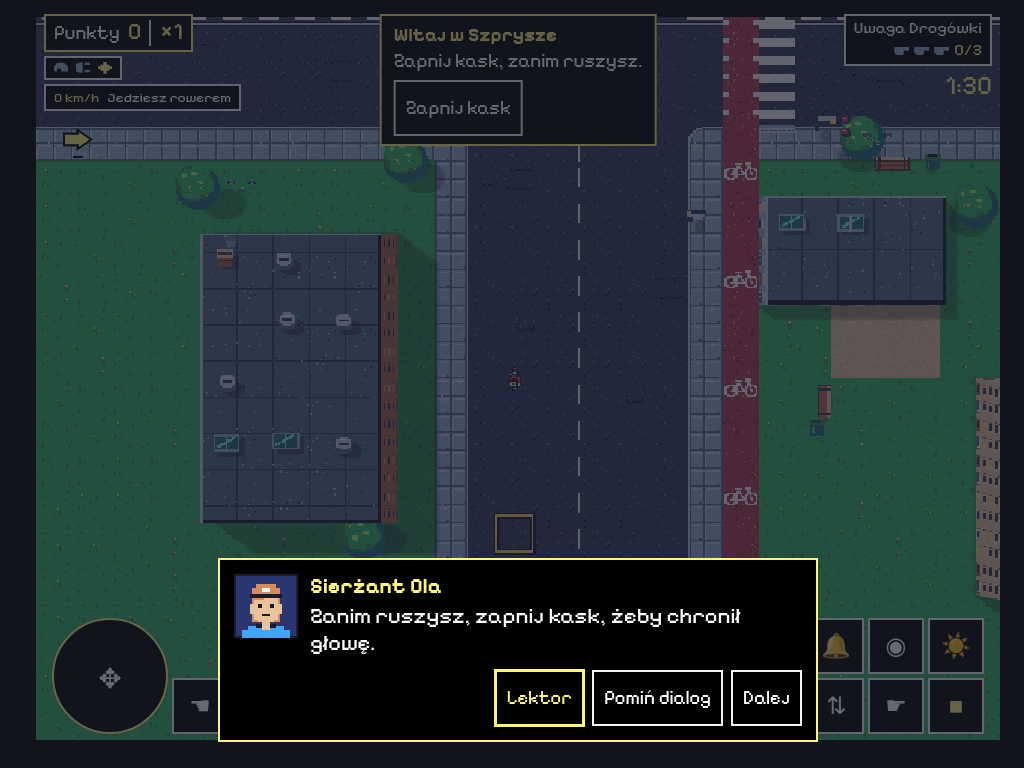
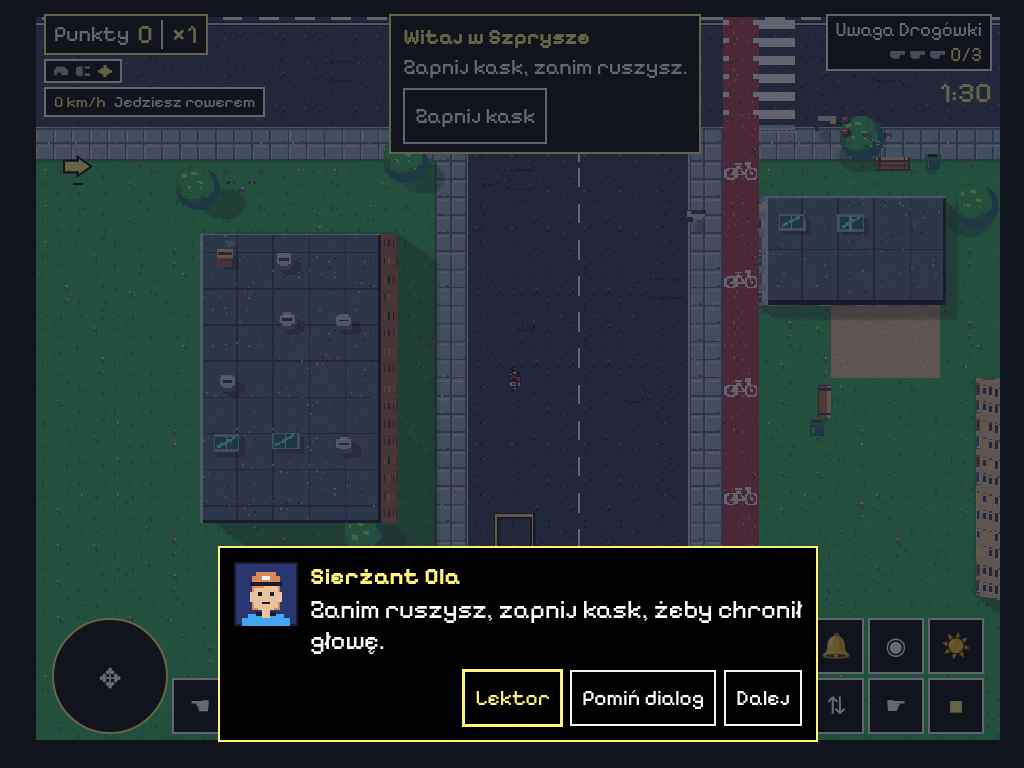
fix(ui): pomieść quiz i HUD z największym tekstem

diff --git a/tests/e2e/mobile-ui.spec.ts b/tests/e2e/mobile-ui.spec.ts
@@ -87,7 +87,17 @@ async function unlockQuiz(page: Page) {
           const record = tx.objectStore(store);
           const read = record.get(key);
           read.onsuccess = () =>
-            record.put({ ...read.result, missionPoints: 4000 }, key);
+            record.put(
+              {
+                ...read.result,
+                missionPoints: 4000,
+                quiz: {
+                  streak: 0,
+                  cards: { Q024: { box: 1, due: '2000-01-01' } },
+                },
+              },
+              key,
+            );
           tx.oncomplete = () => {
             db.close();
             resolve();
@@ -154,7 +164,7 @@ for (const { profile, device, viewport, target, logicalHeight } of [
       const settings = page.getByRole('dialog', { name: pl.settings.title });
       await settings
         .getByRole('combobox', { name: pl.missionResults.textSize })
-        .selectOption('large');
+        .selectOption('largest');
       await settings
         .getByRole('checkbox', { name: pl.missionResults.highContrast })
         .check();
@@ -163,7 +173,7 @@ for (const { profile, device, viewport, target, logicalHeight } of [
         .check();
       await settings.getByRole('button', { name: pl.m5c.close }).tap();
       const root = page.locator('html');
-      await expect(root).toHaveAttribute('data-text-size', 'large');
+      await expect(root).toHaveAttribute('data-text-size', 'largest');
       await expect(root).toHaveAttribute('data-contrast', '');
       await expect(root).toHaveAttribute('data-reduced-effects', '');
       await expect(menu).toHaveCSS('background-color', 'rgb(0, 0, 0)');
@@ -171,6 +181,7 @@ for (const { profile, device, viewport, target, logicalHeight } of [
       const quiz = page.getByRole('dialog', { name: pl.quiz.title });
       await quiz.getByRole('button', { name: new RegExp(pl.quiz.quick) }).tap();
       await expect(quiz.getByRole('progressbar')).toBeVisible();
+      await expect(quiz.locator('.quiz-signs img')).toHaveCount(2);
       await expect(quiz).toHaveCSS('background-color', 'rgb(0, 0, 0)');
       await layout(page, quiz.locator(buttons), target);
       await shot(page, profile, 'quiz');

diff --git a/src/style.css b/src/style.css
@@ -2137,17 +2137,42 @@ html[data-reduced-effects]
     grid-template-columns: 1fr auto;
     padding-bottom: 4px;
   }
+  .quiz-panel :has(> .quiz-signs) {
+    display: grid;
+    grid-template-columns: minmax(0, 1fr) auto;
+    align-items: center;
+    gap: 4px 8px;
+  }
+  .quiz-panel :has(> .quiz-signs) > .quiz-meta {
+    margin-block: 2px;
+  }
+  .quiz-panel :has(> .quiz-signs) > progress {
+    grid-area: 1 / 2;
+  }
+  .quiz-panel :has(> .quiz-signs) > .quiz-answers {
+    grid-column: 1 / -1;
+  }
+  .quiz-panel .quiz-prompt {
+    font-size: calc(17px * var(--text-scale));
+    line-height: 1.1;
+    margin-block: 3px;
+  }
   .quiz-signs {
     padding: 2px;
-    margin-bottom: 4px;
+    margin: 0;
   }
   .quiz-signs img {
-    width: 54px;
+    width: 48px;
   }
   .quiz-modules,
   .quiz-answers {
     grid-template-columns: repeat(2, minmax(0, 1fr));
     gap: 4px;
+  }
+  .quiz-answers button {
+    padding: 3px 6px;
+    font-size: calc(14px * var(--text-scale));
+    line-height: 1.15;
   }
   .quiz-feedback,
   .quiz-answers > .quiz-primary {
@@ -2209,5 +2234,40 @@ html[data-reduced-effects]
     display: grid;
     grid-template-columns: 1fr 1fr;
     gap: 12px;
+  }
+}
+
+@media (any-pointer: coarse) and (min-width: 561px) {
+  .driving-ui:has(.mission-panel) {
+    display: grid;
+    grid-template-columns: fit-content(29%) minmax(0, 1fr) fit-content(29%);
+    grid-template-rows: auto minmax(0, 1fr);
+    column-gap: 8px;
+    padding: 8px;
+  }
+  .driving-ui:has(.mission-panel)
+    > :is(.ride-hud-left, .ride-hud-right, .mission-panel) {
+    position: relative;
+    inset: auto;
+    transform: none;
+    grid-row: 1;
+    align-self: start;
+  }
+  .ride-hud-left {
+    grid-column: 1;
+  }
+  .ride-hud-right {
+    grid-column: 3;
+  }
+  .mission-panel {
+    grid-column: 2;
+    justify-self: center;
+    max-width: min(100%, 380px);
+  }
+  .mission-navigation {
+    position: relative;
+    inset: auto;
+    grid-area: 2 / 1 / 3 / -1;
+    margin: 16px 34px calc(2 * var(--tap-size) + 22px);
   }
 }
